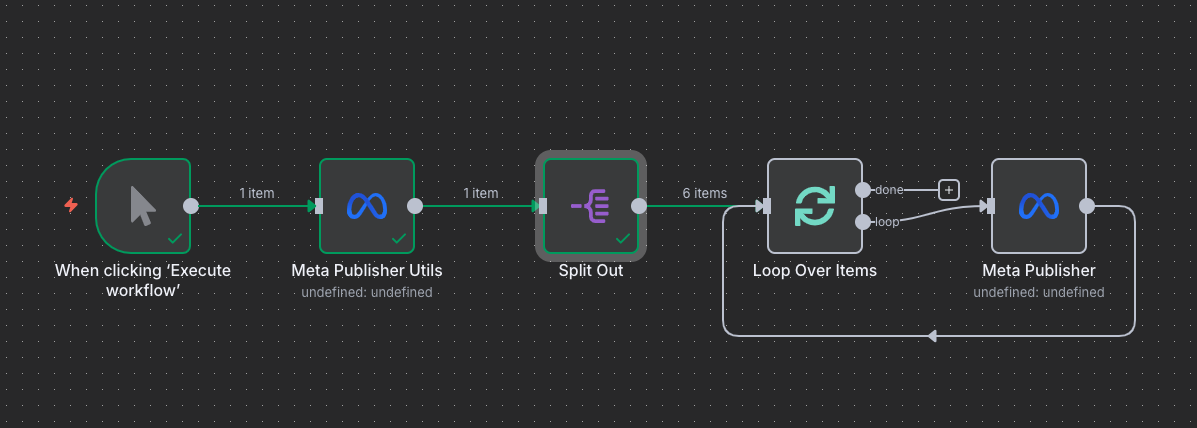
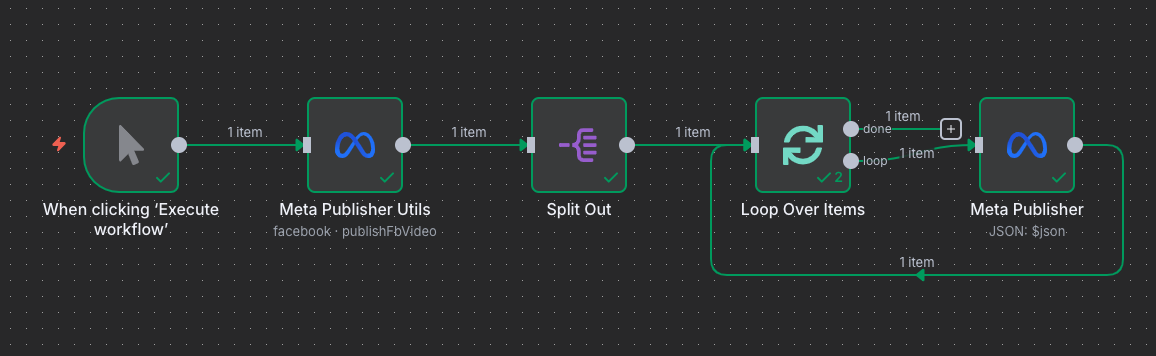
Improved facebook and instagram permalink

diff --git a/nodes/MetaPublisher/lib/ops.ts b/nodes/MetaPublisher/lib/ops.ts
@@ -3,7 +3,7 @@ import { pollUntil } from './poll';
 import type { PublishResult, CarouselItem } from './types';
 
 import { igCreateContainer, igGetStatus, igPublish, igGetPermalink } from './ig';
-import { fbPublishPhoto, fbCreateVideo, fbGetVideoStatus } from './fb';
+import { fbPublishPhoto, fbCreateVideo, fbGetVideoStatus, fbGetPermalink } from './fb';
 import {
 	thCreateContainer,
 	thCreateCarouselItem,
@@ -270,7 +270,8 @@ export const OPS = {
 			mediaUrl: a.imageUrl,
 			caption: a.caption,
 		});
-		return { platform: 'facebook', type: 'image', result: res, published: true };
+		const permalink = res && res.post_id ? await fbGetPermalink(ctx, res.post_id) : null;
+		return { platform: 'facebook', type: 'image', result: res, published: true, permalink };
 	},
 
 	async publishFbVideo(
@@ -300,12 +301,14 @@ export const OPS = {
 			intervalMs: a.pollSec * 1000,
 			maxMs: a.maxWaitSec * 1000,
 		});
+		const permalink = videoId ? await fbGetPermalink(ctx, videoId) : null;
 		return {
 			platform: 'facebook',
 			type: 'video',
 			videoId,
 			status: status?.status?.video_status,
 			published: true,
+			permalink,
 		};
 	},
 

diff --git a/nodes/MetaPublisher/lib/client.ts b/nodes/MetaPublisher/lib/client.ts
@@ -23,10 +23,12 @@ export async function apiRequest(
 		if (cred?.accessToken) {
 			options.qs = { access_token: cred.accessToken, ...qs };
 			// Note: Enable this to debug the request!
-			// console.log('-------------------------');
-			// console.log(JSON.stringify({ options }, null, 2));
-			// console.log(JSON.stringify({ res }, null, 2));
-			return await thisArg.helpers.request(options);
+			console.log('-------------------------');
+			console.log(JSON.stringify({ options }, null, 2));
+
+			const res = await thisArg.helpers.request(options);
+			console.log(JSON.stringify({ res }, null, 2));
+			return res;
 		}
 	} catch {
 		// no credential, keep going to plain request

diff --git a/nodes/MetaPublisher/lib/fb.ts b/nodes/MetaPublisher/lib/fb.ts
@@ -68,3 +68,16 @@ export async function fbGetVideoStatus(
 ): Promise<FbVideoStatus> {
 	return apiRequest(ctx, 'GET', `/${encodeURIComponent(videoId)}`, { fields: 'status' }, {});
 }
+
+export async function fbGetPermalink(ctx: IExecuteFunctions, mediaId: string) {
+	const res = await apiRequest(
+		ctx,
+		'GET',
+		`/${encodeURIComponent(mediaId)}`,
+		{ fields: 'permalink_url' },
+		{},
+	);
+	if (!res?.id) throw new Error('FB get permalink failed: ' + JSON.stringify(res));
+	const permalink = res?.permalink_url;
+	return permalink.startsWith('/') ? `https://www.facebook.com${permalink}` : permalink;
+}

diff --git a/nodes/MetaPublisher/lib/ig.ts b/nodes/MetaPublisher/lib/ig.ts
@@ -86,7 +86,7 @@ export function igGetStatus(this: IExecuteFunctions, creationId: string) {
 }
 
 export async function igGetPermalink(this: IExecuteFunctions, mediaId: string) {
-	const res = apiRequest(
+	const res = await apiRequest(
 		this,
 		'GET',
 		`/${encodeURIComponent(mediaId)}`,
